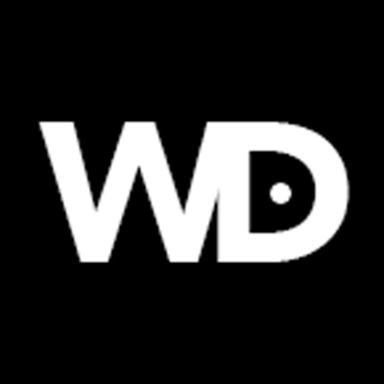
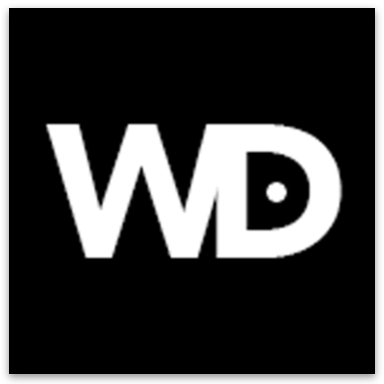
Updated ico files and calls in the HTML.

diff --git a/src/index.html b/src/index.html
@@ -9,16 +9,15 @@
 		<meta http-equiv="cleartype" content="on">
 		<meta name="msapplication-tap-highlight" content="no">
 
-		<link rel="canonical" href="/">
 		<link rel="stylesheet" href="css/main.css">
 		<link rel="apple-touch-icon" sizes="180x180" href="ico/apple-touch-icon.png">
-		<link rel="icon" type="image/png" href="ico/favicon-32x32.png" sizes="32x32">
-		<link rel="icon" type="image/png" href="ico/favicon-16x16.png" sizes="16x16">
-		<link rel="manifest" href="manifest.json">
+		<link rel="icon" type="image/png" sizes="32x32" href="ico/favicon-32x32.png">
+		<link rel="icon" type="image/png" sizes="16x16" href="ico/favicon-16x16.png">
+		<link rel="manifest" href="ico/manifest.json">
 		<link rel="mask-icon" href="ico/safari-pinned-tab.svg" color="#5bbad5">
 		<link rel="shortcut icon" href="ico/favicon.ico">
-		<meta name="apple-mobile-web-app-title" content="Wedgwood Design">
-		<meta name="application-name" content="Wedgwood Design">
+		<meta name="msapplication-TileColor" content="#ffffff">
+		<meta name="msapplication-config" content="ico/browserconfig.xml">
 		<meta name="theme-color" content="#ffffff">
 	</head>
 	<body>
